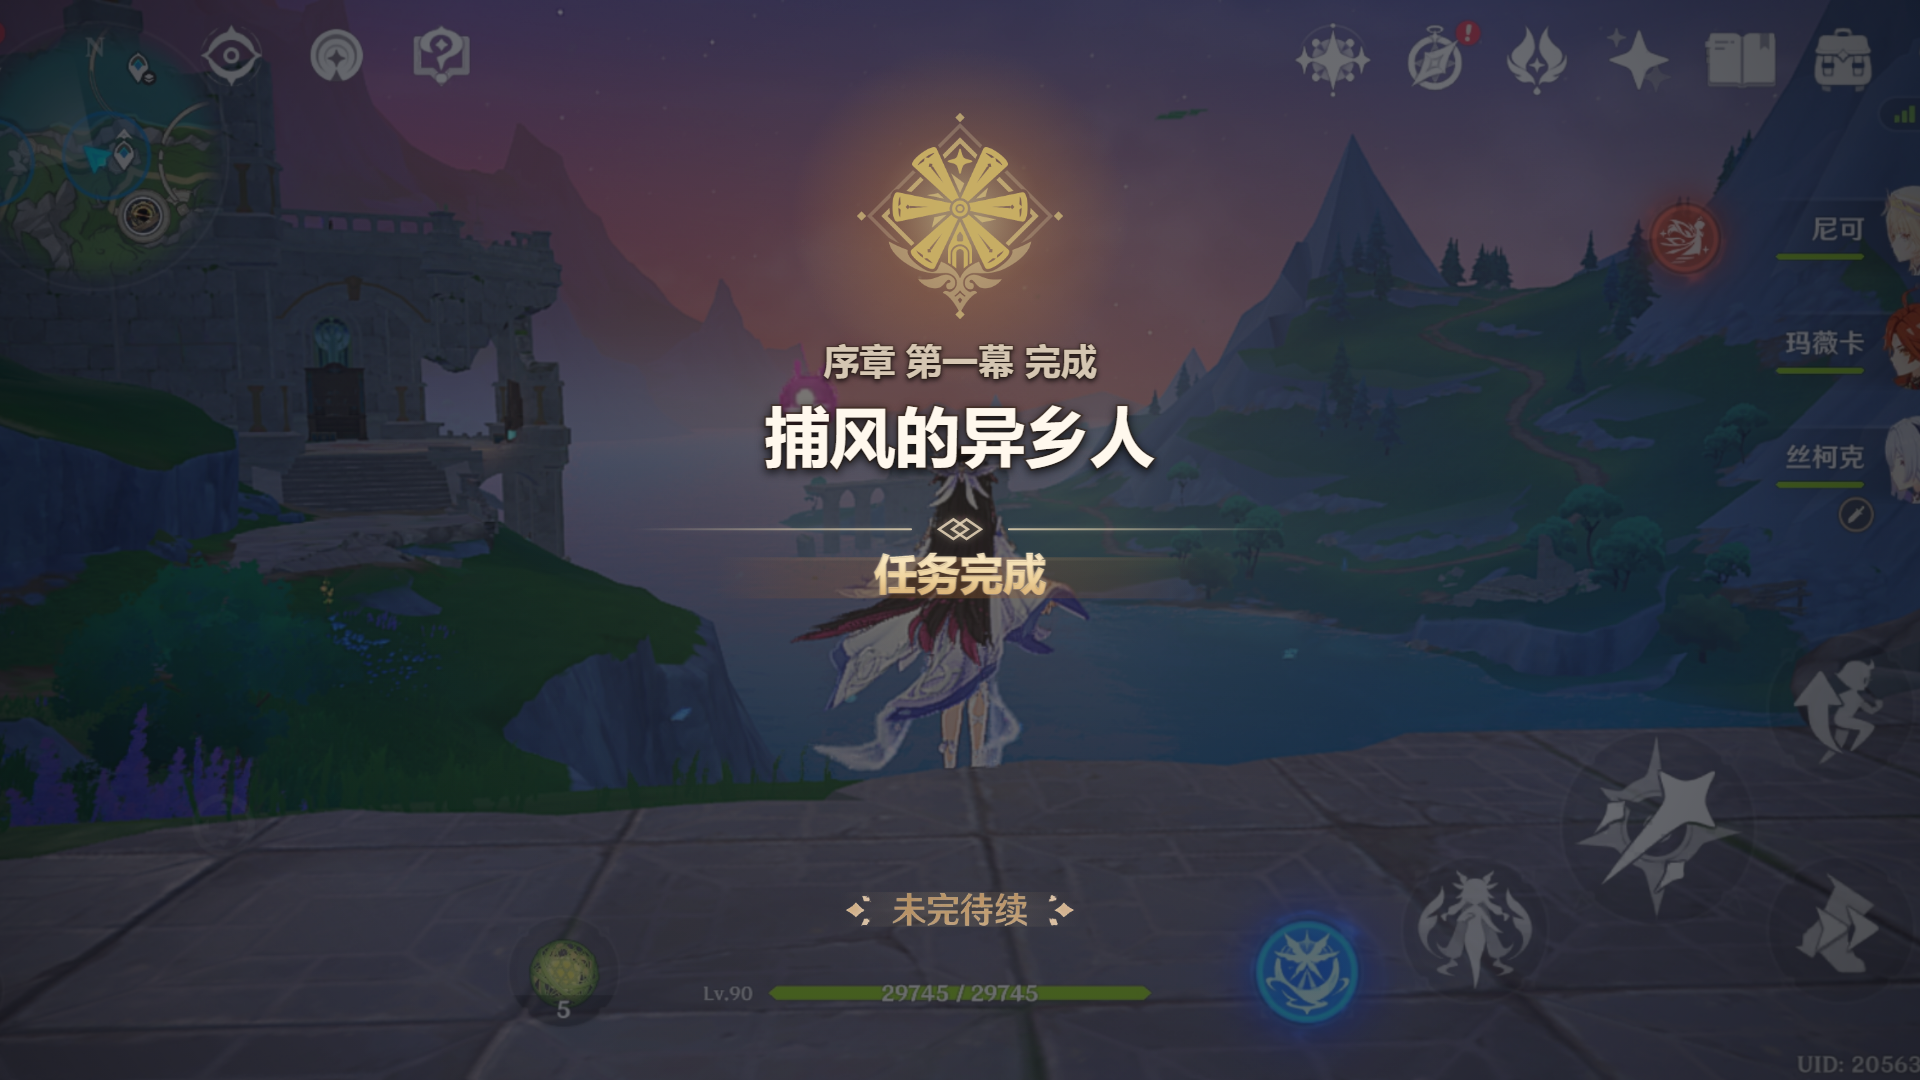
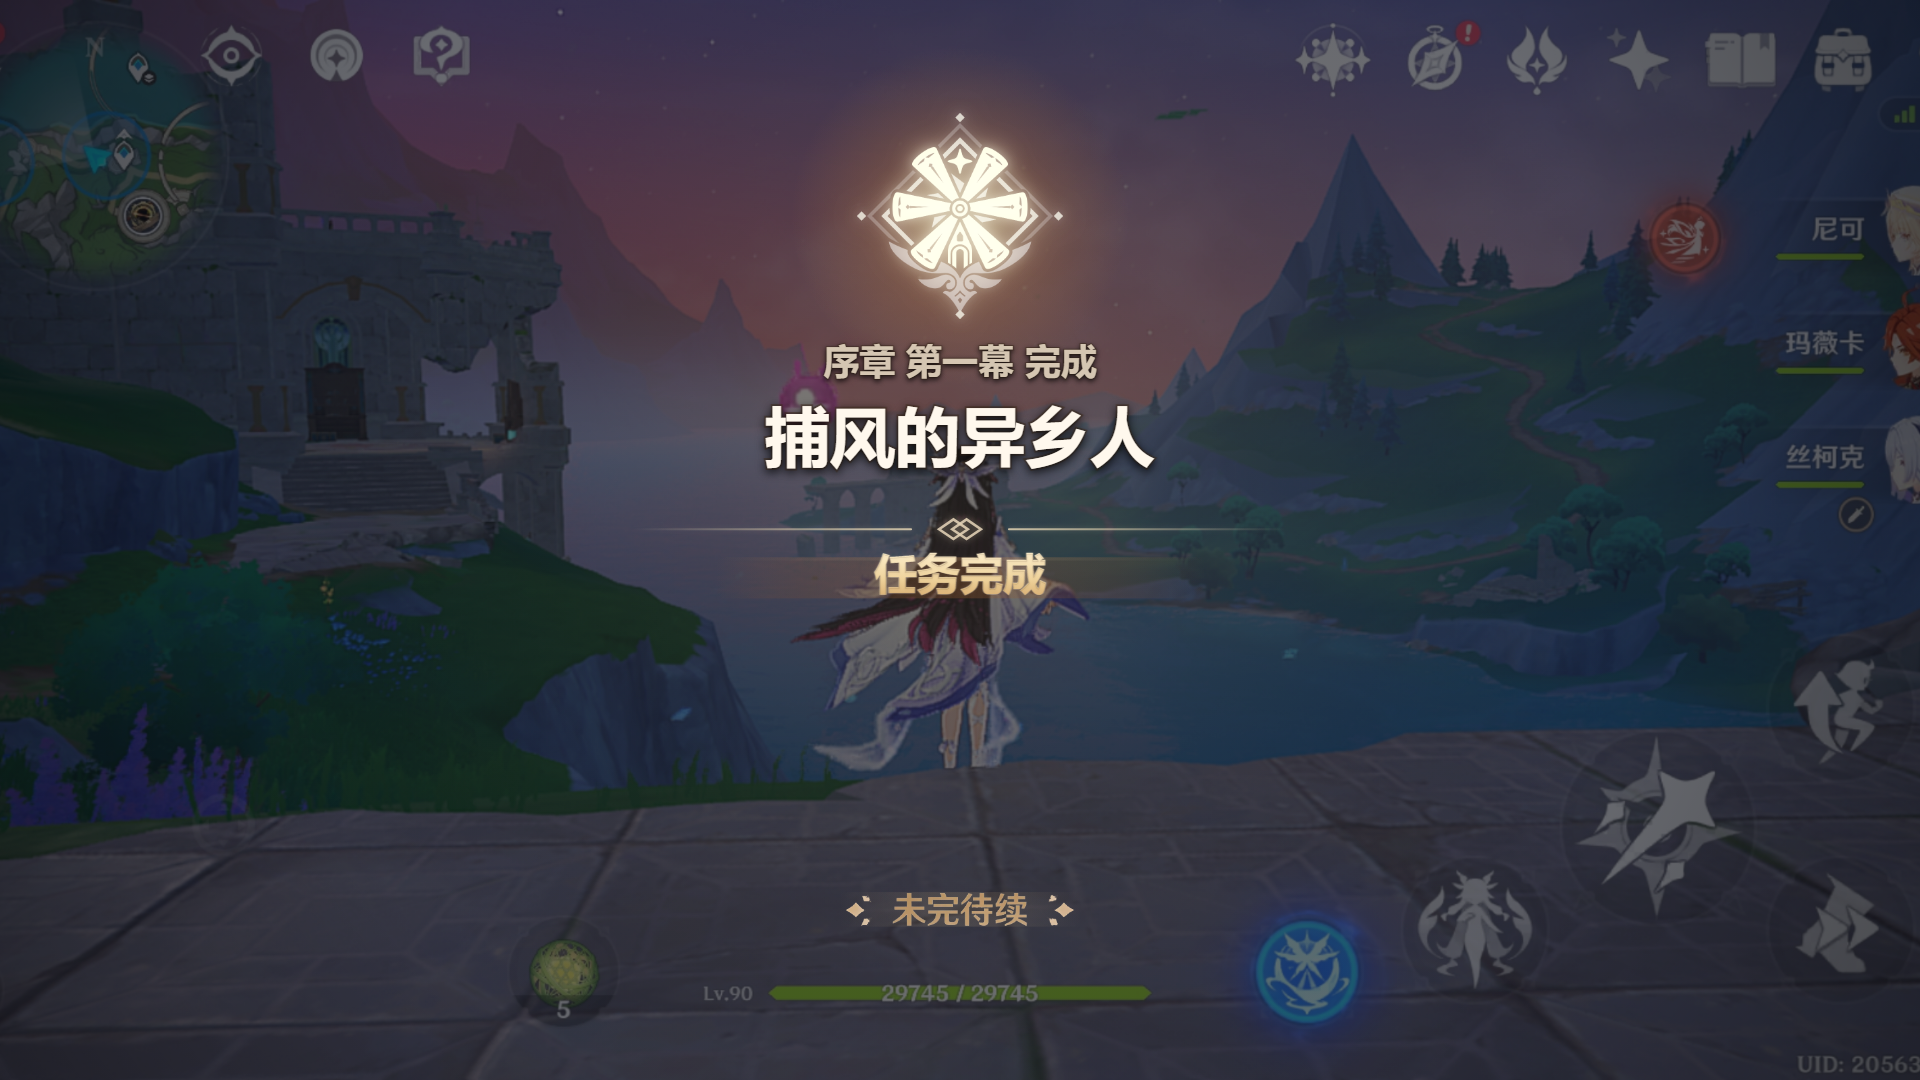
fix: improve emblem contrast and selector readability

Changed region(s): [[0.4375, 0.1222, 0.5625, 0.275]]

diff --git a/tests/emblem-loading.test.js b/tests/emblem-loading.test.js
@@ -44,18 +44,31 @@ function createElement(initial = {}) {
 
 function createDrawingContext(drawCalls, onRender) {
   const gradient = () => ({ addColorStop() {} });
-  return {
+  const stateStack = [];
+  const context = {
+    filter: 'none',
+    globalCompositeOperation: 'source-over',
     clearRect() {
       onRender();
     },
     drawImage(...args) {
-      drawCalls.push(args);
+      const call = [...args];
+      call.filter = this.filter;
+      call.globalCompositeOperation = this.globalCompositeOperation;
+      drawCalls.push(call);
     },
     fillRect() {},
     createLinearGradient: gradient,
     createRadialGradient: gradient,
-    save() {},
-    restore() {},
+    save() {
+      stateStack.push({
+        filter: this.filter,
+        globalCompositeOperation: this.globalCompositeOperation,
+      });
+    },
+    restore() {
+      Object.assign(this, stateStack.pop() || {});
+    },
     beginPath() {},
     arc() {},
     fill() {},
@@ -69,6 +82,7 @@ function createDrawingContext(drawCalls, onRender) {
       return { width: String(text).length * 10 };
     },
   };
+  return context;
 }
 
 function scheduleTicks(count, callback) {
@@ -309,6 +323,22 @@ test('every canonical emblem key draws its exact asset path', async () => {
       `${key} should draw ${src}`
     );
   }
+});
+
+test('selected emblem is drawn with a pale luminous screen effect', async () => {
+  const harness = createHarness({ search: '?testImage=query.png&emblem=mengdei' });
+  await harness.flush();
+
+  assert.ok(
+    harness.drawCalls.some((call) =>
+      call[0]?.src === 'assets/mengdei.png' &&
+      call.filter.includes('brightness(') &&
+      call.filter.includes('saturate(') &&
+      call.filter.includes('drop-shadow(') &&
+      call.globalCompositeOperation === 'screen'
+    ),
+    'the selected emblem should have a bright pale core and visible glow'
+  );
 });
 
 test('every failed emblem reports its exact label while other assets remain usable', async () => {

diff --git a/script.js b/script.js
@@ -122,7 +122,7 @@
     } = layout;
 
     drawEmblemGlow(cx, emblemY, emblemSize);
-    drawCenteredAsset(overlayAssets.emblems[state.emblem], cx, emblemY, null, emblemSize * 1.16, 0.98);
+    drawLuminousEmblem(overlayAssets.emblems[state.emblem], cx, emblemY, emblemSize * 1.16);
     drawTextLine(state.line1, cx, line1Y, line1Size, 700, '#ded0bb', 0.95, width * 0.42);
     drawTextLine(state.line2, cx, line2Y, line2Size, 850, '#fff8ed', 1, width * 0.47);
     drawOrnamentDivider(cx, dividerY, dividerWidth, height);
@@ -143,6 +143,20 @@
     ctx.arc(cx, cy, size * 0.96, 0, Math.PI * 2);
     ctx.fill();
     ctx.restore();
+  }
+
+  function drawLuminousEmblem(asset, cx, cy, height) {
+    if (!asset) {
+      return;
+    }
+    drawCenteredAsset(asset, cx, cy, null, height, 0.34, {
+      filter: 'brightness(2) saturate(0.2) blur(5px)',
+      compositeOperation: 'screen',
+    });
+    drawCenteredAsset(asset, cx, cy, null, height, 1, {
+      filter: 'brightness(1.65) saturate(0.42) contrast(1.05) drop-shadow(0 0 12px rgba(255, 235, 184, 0.76))',
+      compositeOperation: 'screen',
+    });
   }
 
   function drawOrnamentDivider(cx, cy, width, height) {
@@ -284,6 +298,7 @@
     ctx.save();
     ctx.globalAlpha = alpha;
     ctx.filter = options.filter || 'none';
+    ctx.globalCompositeOperation = options.compositeOperation || 'source-over';
     ctx.drawImage(
       source,
       bounds.x,

diff --git a/tests/static-ui.test.js b/tests/static-ui.test.js
@@ -4,6 +4,7 @@ const path = require('node:path');
 
 const html = fs.readFileSync(path.resolve(__dirname, '..', 'index.html'), 'utf8');
 const script = fs.readFileSync(path.resolve(__dirname, '..', 'script.js'), 'utf8');
+const styles = fs.readFileSync(path.resolve(__dirname, '..', 'styles.css'), 'utf8');
 
 const expectedEmblemOptions = [
   ['mengdei', '蒙德'],
@@ -46,6 +47,12 @@ assert.ok(
   'emblemSelect should appear after overlayOpacityInput and before exportButton'
 );
 
+assert.match(
+  styles,
+  /select option\s*\{[^}]*background(?:-color)?\s*:\s*#[0-9a-f]{6}[^}]*color\s*:\s*#fff8e8[^}]*\}/isu,
+  'native select options should use a dark background with readable light text'
+);
+
 assert.equal(
   script.includes("fillText('上传图片后在这里预览'"),
   false,
@@ -83,8 +90,8 @@ assert.match(
 
 assert.match(
   script,
-  /drawCenteredAsset\(\s*overlayAssets\.emblems\[state\.emblem\]/u,
-  'the center overlay should draw the emblem selected in render state'
+  /drawLuminousEmblem\(\s*overlayAssets\.emblems\[state\.emblem\]/u,
+  'the center overlay should draw the selected emblem with the luminous treatment'
 );
 
 assert.match(

diff --git a/styles.css b/styles.css
@@ -73,7 +73,19 @@ select {
 
 select {
   padding: 8px 10px;
+  background-color: #25282e;
+  color: #fff8e8;
   color-scheme: dark;
+}
+
+select option {
+  background-color: #1d2026;
+  color: #fff8e8;
+}
+
+select option:checked {
+  background-color: #c9b07a;
+  color: #17140e;
 }
 
 input[type="text"] {
